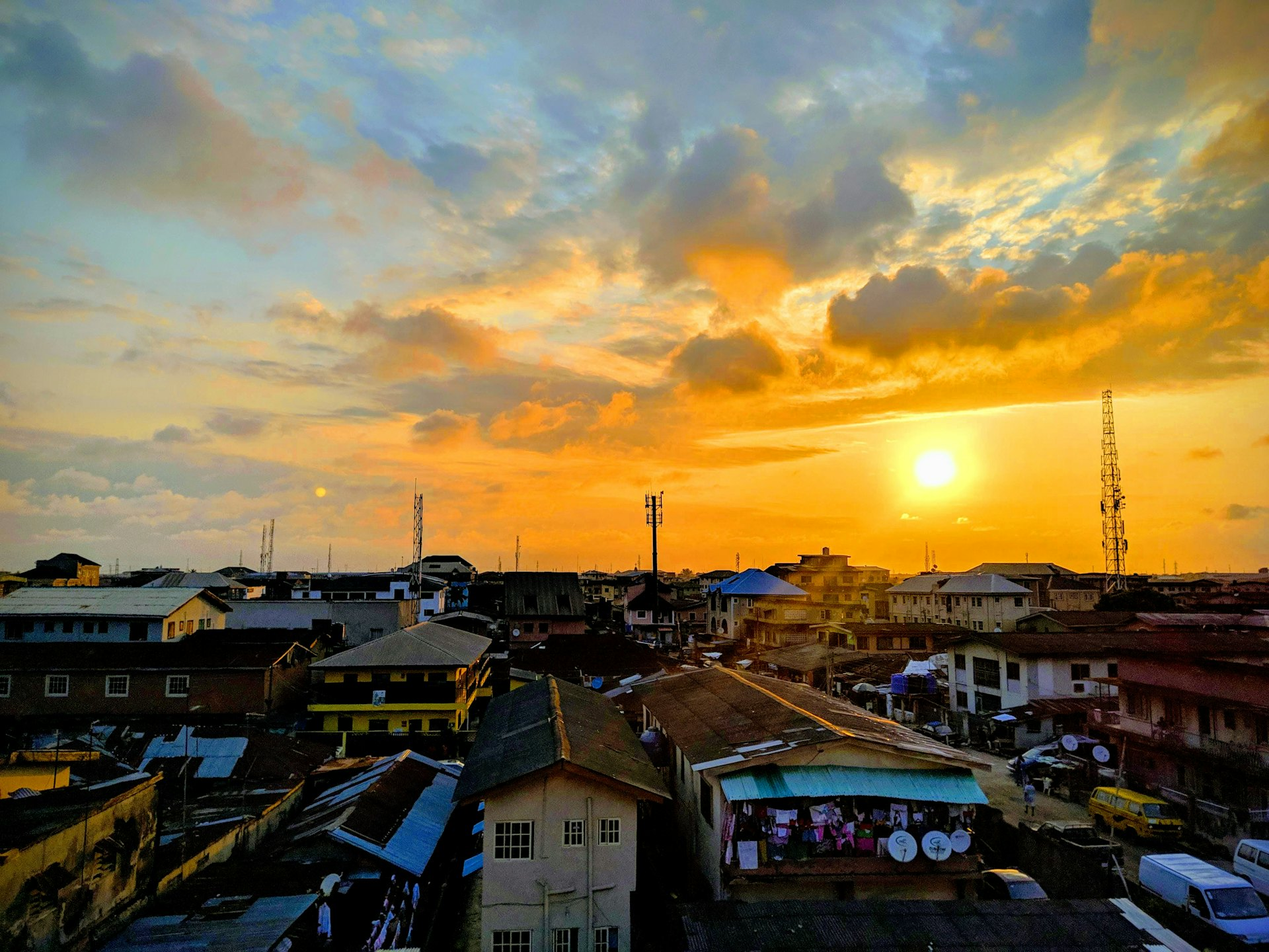
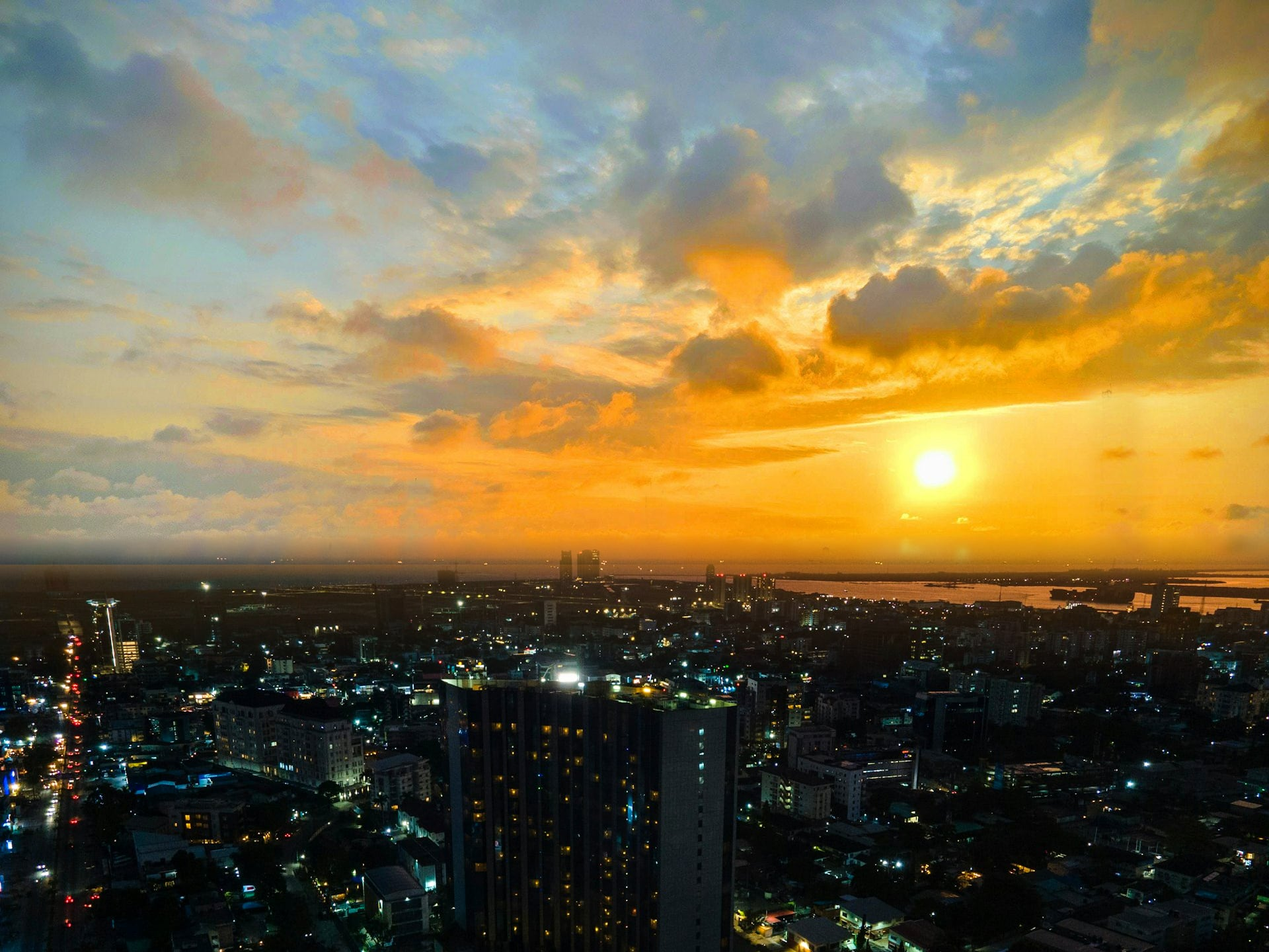
Homepage hero: same sky and sun over a modern Lagos city
Blend the existing sunset sky with a real photo of Lagos at dusk, retouch
out radio masts and a building logo, and keep the sun at the same point so
it stays above "confidence". Sources and script are documented.

Changed region(s): [[0.0, 0.4062, 1.0, 1.0]]

diff --git a/public/sites/drocol/heroes/README.md b/public/sites/drocol/heroes/README.md
@@ -29,7 +29,7 @@ credit not required but appreciated). Downloaded 2026-11-04.
 | industries.jpg | Malik Buraimoh                   | https://unsplash.com/photos/EMjpo0YjHPw  |
 | research.jpg   | Chris Ried                       | https://unsplash.com/photos/ieic5Tq8YMk  |
 | contact.jpg    | Aalo Lens                        | https://unsplash.com/photos/Ypv0MH4izf8  |
-| home.jpg       | Namnso Ukpanah                   | https://unsplash.com/photos/6UqJTfoXIq8  |
+| home.jpg       | Namnso Ukpanah (sky), Malik Buraimoh (city) | https://unsplash.com/photos/6UqJTfoXIq8 and https://unsplash.com/photos/hF5bIFQ62Hw |
 | book.jpg       | Kevin Horvat                     | https://unsplash.com/photos/Pyjp2zmxuLk  |
 | article.jpg    | Pawel Czerwinski                 | https://unsplash.com/photos/fPN1w7bIuNU  |
 
@@ -40,3 +40,10 @@ wall. The unedited photo is `docs/design-references/contact-original.jpg`.
 To regenerate (for example after a logo change), from the project root:
 
     node scripts/make-contact-sign.mjs docs/design-references/contact-original.jpg public/sites/drocol/heroes/contact.jpg
+
+`home.jpg` is a composite of those two photos: the sky and sun from the first,
+the city from the second, with radio masts and a building logo retouched out.
+The source files are in `docs/design-references/` (`home-original.jpg`,
+`home-city.jpg`). To regenerate, from the project root:
+
+    node scripts/make-home-hero.mjs docs/design-references/home-original.jpg docs/design-references/home-city.jpg public/sites/drocol/heroes/home.jpg
